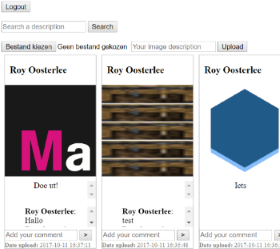
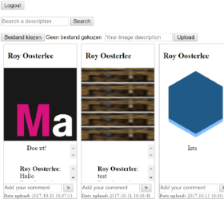
u

diff --git a/index.php b/index.php
@@ -5,6 +5,10 @@
         <title>Portfolio - Roy Oosterlee</title>
         <link rel="stylesheet" href="./main.css">
 
+        <link rel="alternate" hreflang="en" href="http://24868.hosts.ma-cloud.nl/bewijzenmap/Portfolio/en">
+        <link rel="alternate" hreflang="es" href="http://24868.hosts.ma-cloud.nl/bewijzenmap/Portfolio/es">
+        <link rel="alternate" hreflang="de" href="http://24868.hosts.ma-cloud.nl/bewijzenmap/Portfolio/de">
+        <link rel="alternate" hreflang="x-default" href="http://24868.hosts.ma-cloud.nl/bewijzenmap/Portfolio/">
 
         <meta name="twitter:card" content="summary">
         <meta name="twitter:site" content="@royoost">
@@ -24,41 +28,58 @@
         <meta name="author" content="Roy Oosterlee">
         <meta name="viewport" content="width=device-width, initial-scale=1">
 
-        <meta http-equiv="cache-control" content="no-cache" />
-        <script src="./line.js" charset="utf-8"></script>
-        <script src="./main.js"></script>
+        <!-- <meta http-equiv="cache-control" content="no-cache" /> -->
+        <script src="./line.js" charset="utf-8" async></script>
+        <script src="./main.js" async></script>
         <?php
             error_reporting(E_ALL);
             ini_set('display_errors', 1);
             include_once "main.php";
         ?>
+
+        <style>
+        @media (max-width: 768px) {
+          body {
+            max-width: 100%;
+          }
+        }
+        </style>
+
+        <style>
+        @media print {
+          body {
+            max-width: 100%;
+          }
+        }
+        </style>
+
     </head>
     <body onpageshow="checkCached(event)">
         <div class="page_wrapper">
             <div class="navigation">
                 <ul>
-                    <li class="active"><a href="javascript:to('#home')">Home - Portfolio</a></li>
-                    <li class=""><a href="javascript:to('#projects')">Projects</a></li>
-                    <li class=""><a href="javascript:to('#aboutme')">About me</a></li>
-                    <li class=""><a href="javascript:to('#contact')">Contact</a></li>
+                    <li class="active"><a href="javascript:to('#home')" rel="nofollow">Home - Portfolio</a></li>
+                    <li class=""><a href="javascript:to('#projects')" rel="nofollow" rel="nofollow">Projects</a></li>
+                    <li class=""><a href="javascript:to('#aboutme')" rel="nofollow" rel="nofollow">About me</a></li>
+                    <li class=""><a href="javascript:to('#contact')" rel="nofollow" rel="nofollow">Contact</a></li>
                 </ul>
             </div>
             <div class="navigation __fixed">
                 <ul>
-                    <li class="active"><a href="javascript:to('#home')">Home - Portfolio</a></li>
-                    <li class=""><a href="javascript:to('#projects')">Projects</a></li>
-                    <li class=""><a href="javascript:to('#aboutme')">About me</a></li>
-                    <li class=""><a href="javascript:to('#contact')">Contact</a></li>
+                    <li class="active"><a href="javascript:to('#home')" rel="nofollow" rel="nofollow">Home - Portfolio</a></li>
+                    <li class=""><a href="javascript:to('#projects')" rel="nofollow" rel="nofollow">Projects</a></li>
+                    <li class=""><a href="javascript:to('#aboutme')" rel="nofollow" rel="nofollow">About me</a></li>
+                    <li class=""><a href="javascript:to('#contact')" rel="nofollow" rel="nofollow">Contact</a></li>
                 </ul>
             </div>
             <div class="page">
                 <div class="background" id="home">
                     <div class="bg_overlay">
-                        <!-- <img src="" alt="" class="myselfPhoto"> -->
+                        <!-- <img src="" alt="alt" class="myselfPhoto"> -->
                         <h1>Portfolio - Roy Oosterlee.</h1><br>
-                        <h4>Check out my <a href="javascript:to('#projects')">projects</a> and <a href="javascript:to('#aboutme')">skills</a> down below!</h4>
+                        <h4>Check out my <a href="javascript:to('#projects')" rel="nofollow" rel="nofollow">projects</a> and <a href="javascript:to('#aboutme')" rel="nofollow" rel="nofollow">skills</a> down below!</h4>
                         <!-- <div class="foot">
-                            <a href="#content"><p><span class="lines">||</span><br>v</p></a>
+                            <a href="#content" rel="nofollow" rel="nofollow"><p><span class="lines">||</span><br>v</p></a>
                         </div> -->
                     </div>
                 </div>
@@ -87,7 +108,7 @@
 
                         <div class="block">
                             <h1>Portfolio</h1>
-                            <img src="./images/PortfolioImage.png" alt="">
+                            <img src="./images/PortfolioImage.png" alt="alt">
                             <p>Portfolio - Roy Oosterlee. Made for school and work. I designed it myself and coded it all. Made with HTML, CSS, JavaScript. <br><br><span class="moreinfohover">[Hover for more info]</span></p>
                             <div class="__hover">
                                 <button type="button" name="button" class="btn">Read more</button>
@@ -117,7 +138,7 @@
                         </div>
                         <div class="block">
                             <h1>Crazy Eights</h1>
-                            <img src="./images/nodeJSCardGameImage.png" alt="">
+                            <img src="./images/nodeJSCardGameImage.png" alt="alt">
                             <p>I made Crazy Eights becouse i was on a vacation and the weather was not all that good. Made with HTML, CSS, JavaScript (NodeJS) <br><br><span class="moreinfohover">[Hover for more info]</span></p>
                             <div class="__hover">
                                 <button type="button" name="button" class="btn">Read more</button>
@@ -144,8 +165,8 @@
 
                         <!-- TODO: ADD THE CODE REPOSETORY FOR GITHUB -->
                         <div class="block">
-                            <h1>Bomberman</h1><a href="https://github.com/oosterlee/Bomberman" target="_blank" class="showcode">(show Code)</a>
-                            <img src="./images/BombermanImage.png" alt="">
+                            <h1>Bomberman</h1><a href="https://github.com/oosterlee/Bomberman" target="_blank" class="showcode" rel="nofollow" rel="nofollow">(show Code)</a>
+                            <img src="./images/BombermanImage.png" alt="alt">
                             <p>Bomberman is a game i made for a school project in the first week i came to school. Made with HTML, CSS, JavaScript (P5.js library) <br><br><span class="moreinfohover">[Hover for more info]</span></p>
                             <div class="__hover">
                                 <button type="button" name="button" class="btn">Read more</button>
@@ -169,8 +190,8 @@
                         </div>
                         <!-- TODO: ADD THE CODE REPOSETORY FOR GITHUB -->
                         <div class="block">
-                            <h1>Instaclone</h1><a href="https://github.com/oosterlee/InstaClone" target="_blank" class="showcode">(show Code)</a>
-                            <img src="./images/instacloneImage.png" alt="">
+                            <h1>Instaclone</h1><a href="https://github.com/oosterlee/InstaClone" target="_blank" class="showcode" rel="nofollow" rel="nofollow">(show Code)</a>
+                            <img src="./images/instacloneImage.png" alt="alt">
                             <p>Instaclone is a clone of Instagram. You can post photos and add comments to the photo. I made this for a school project.<br><br><span class="moreinfohover">[Hover for more info]</span></p>
                             <div class="__hover">
                                 <button type="button" name="button" class="btn">Read more</button>
@@ -193,7 +214,7 @@
 
                         <div class="block">
                             <h1>Login Template</h1>
-                            <img src="./images/logintemplateImage.png" alt="">
+                            <img src="./images/logintemplateImage.png" alt="alt">
                             <p>I made a template becouse i used a login screen much and had to redo everything becouse of the new project i started.<br><br><span class="moreinfohover">[Hover for more info]</span></p>
                             <div class="__hover">
                                 <button type="button" name="button" class="btn">Read more</button>
@@ -300,24 +321,24 @@
                         <h1>Contact</h1>
                         <p class="line" data-px="35%" data-animate="true" data-gradient="linear-gradient(-45deg, #EE7752, #E73C7E, #23A6D5, #23D5AB)"></p>
                         <p></p><br><br>
[8 lines of base64/hex data omitted]
                     </div>
                 </div>
 
                 <div>
                     Share:
-                    <p><a href="https://www.facebook.com/sharer/sharer.php?u=marcoosterlee.no-ip.org%2FPortfolio">Facebook</a></p>
-                    <p><a href="https://twitter.com/intent/tweet?url=marcoosterlee.no-ip.org%2FPortfolio&text=Portfolio%20-%20Roy%20Oosterlee">Twitter</a></p>
-                    <p><a href="https://plus.google.com/share?url=marcoosterlee.no-ip.org%2FPortfolio">Google+</a></p>
-                    <p><a href="http://www.linkedin.com/shareArticle?mini=true&url=marcoosterlee.no-ip.org%2FPortfolio&title=Portfolio%20-%20Roy%20Oosterlee">LinkedIn</a></p>
-                    <p><a href="http://pinterest.com/pin/create/button/?url=marcoosterlee.no-ip.org%2FPortfolio&description=Portfolio%20-%20Roy%20Oosterlee">Pinterest</a></p>
-                    <p><a href="http://www.tumblr.com/share?v=3&u=marcoosterlee.no-ip.org%2FPortfolio&t=Portfolio%20-%20Roy%20Oosterlee">Tumblr</a></p>
+                    <button><a href="https://www.facebook.com/sharer/sharer.php?u=http%3A%2F%2F24868.hosts.ma-cloud.nl%2Fbewijzenmap%2FPortfolio%2F" rel="nofollow">Facebook</a></button>
+                    <button><a href="https://twitter.com/intent/tweet?url=http%3A%2F%2F24868.hosts.ma-cloud.nl%2Fbewijzenmap%2FPortfolio%2F&text=Portfolio%20from%20Roy%20Oosterlee%20-%20Web%20Developer" rel="nofollow">Twitter</a></button>
+                    <button><a href="https://plus.google.com/share?url=http%3A%2F%2F24868.hosts.ma-cloud.nl%2Fbewijzenmap%2FPortfolio%2F" rel="nofollow">Google+</a></button>
+                    <button><a href="http://www.linkedin.com/shareArticle?mini=true&url=http%3A%2F%2F24868.hosts.ma-cloud.nl%2Fbewijzenmap%2FPortfolio%2F&title=Portfolio%20from%20Roy%20Oosterlee%20-%20Web%20Developer" rel="nofollow">LinkedIn</a></button>
+                    <button><a href="http://pinterest.com/pin/create/button/?url=http%3A%2F%2F24868.hosts.ma-cloud.nl%2Fbewijzenmap%2FPortfolio%2F&description=Portfolio%20from%20Roy%20Oosterlee%20-%20Web%20Developer" rel="nofollow">Pinterest</a></button>
+                    <button><a href="http://www.tumblr.com/share?v=3&u=http%3A%2F%2F24868.hosts.ma-cloud.nl%2Fbewijzenmap%2FPortfolio%2F&t=Portfolio%20from%20Roy%20Oosterlee%20-%20Web%20Developer" rel="nofollow">Tumblr</a></button>
                 </div>
 
-                <footer>Footer! <a href="https://icons8.com">Icons by Icons8</a></footer>
+                <footer>Footer! <a href="https://icons8.com" rel="nofollow">Icons by Icons8</a></footer>
             </div>
         </div>
         <div class="debug_output" style="display: none;">
